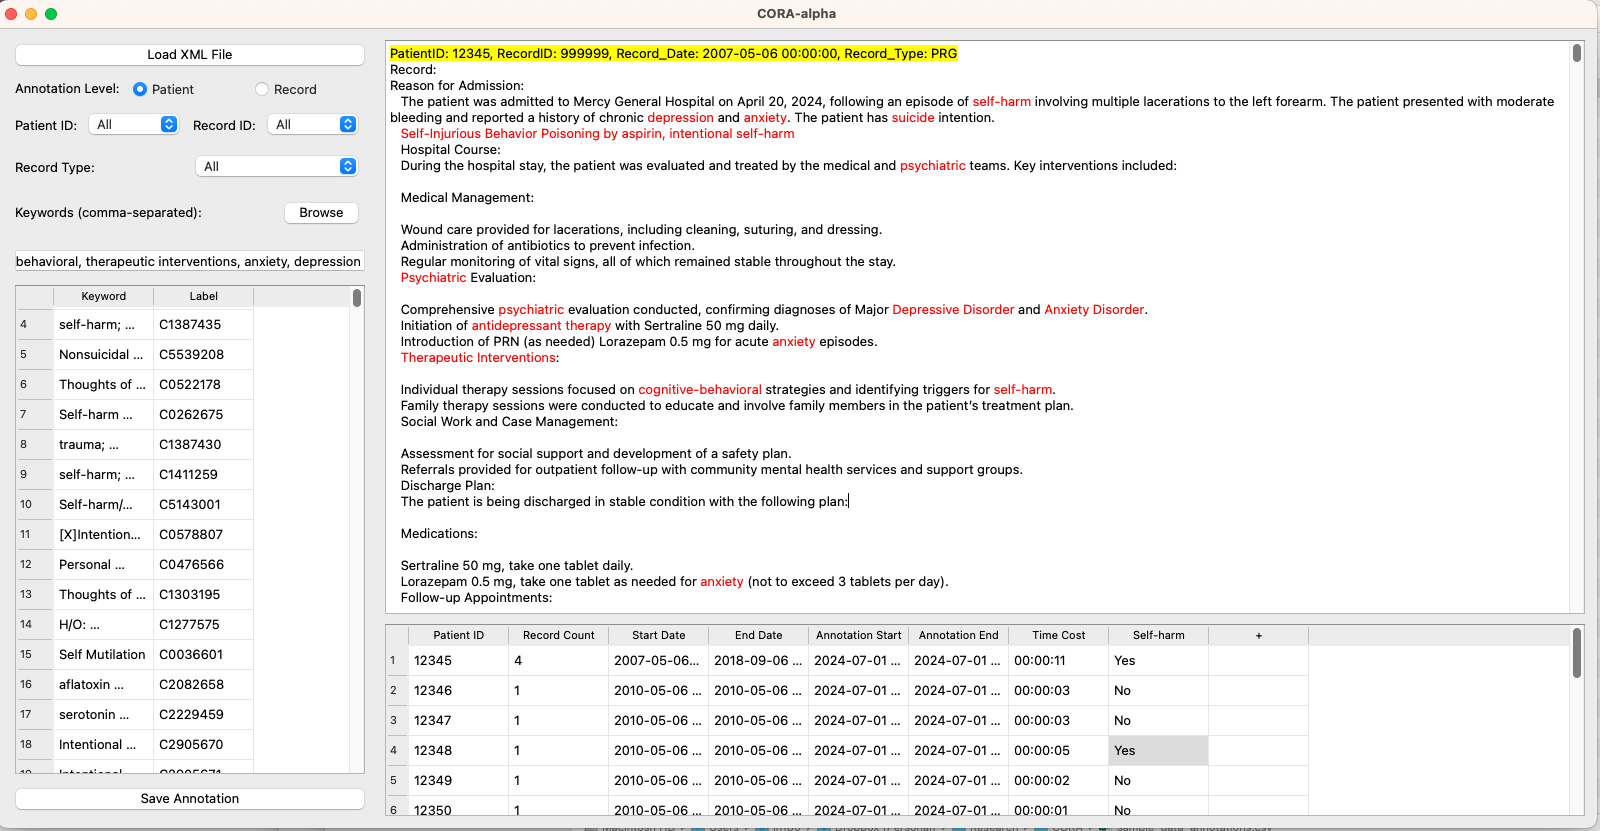
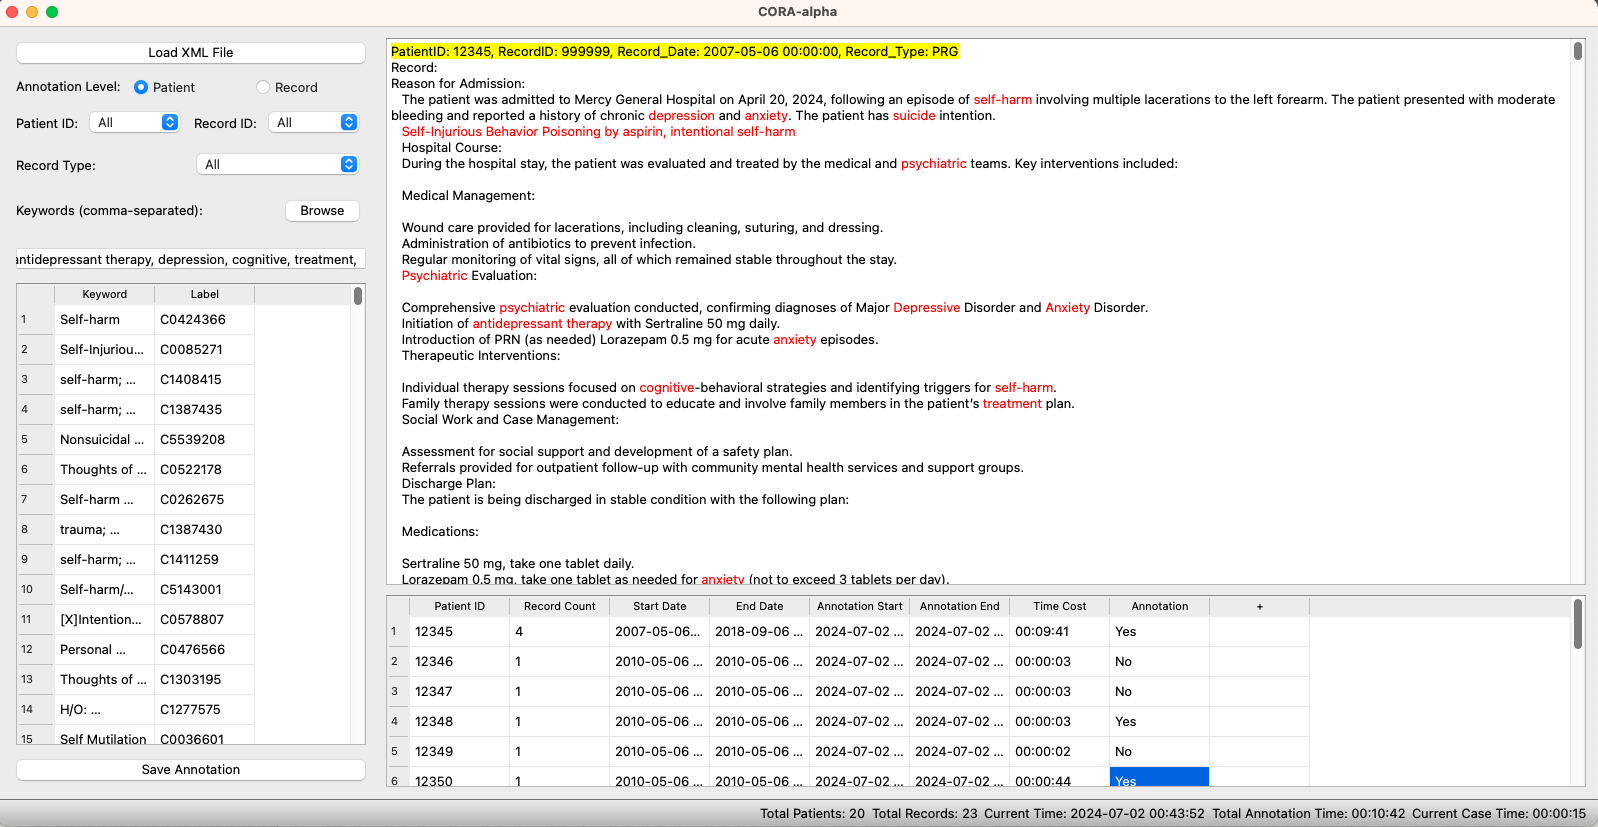
init

diff --git a/cora.py b/cora.py
@@ -12,7 +12,7 @@ from PyQt5.QtWidgets import (QApplication, QMainWindow, QWidget, QVBoxLayout, QH
                              QPushButton, QLabel, QLineEdit, QTextEdit, QTableWidget, 
                              QTableWidgetItem, QHeaderView, QFileDialog, QMessageBox, QInputDialog,
                              QListWidget, QComboBox, QDateEdit, QRadioButton, QButtonGroup, QGridLayout)
-from PyQt5.QtCore import Qt, QDateTime, QTime,  QDate
+from PyQt5.QtCore import Qt, QDateTime, QTime,  QDate, QTimer
 from PyQt5.QtGui import QColor, QTextCharFormat, QTextCursor, QTextDocument
 
 ## enable adjust column width of annotation panel
@@ -51,6 +51,29 @@ class AnnotationTool(QMainWindow):
         self.record_headers = ['PatientID', 'RecordID', 'Record_Date', 'Record_Type', 'Annotation Start', 'Annotation End', 'Time Cost', 'Annotation', '+']
         self.load_keywords = {}
         self.annotation_start_times = {}
+        
+        # Create status bar
+        self.statusBar = self.statusBar()
+        self.patient_count_label = QLabel()
+        self.record_count_label = QLabel()
+        self.current_time_label = QLabel()
+        self.total_time_cost_label = QLabel()
+        self.current_case_time_label = QLabel()
+
+        self.statusBar.addPermanentWidget(self.patient_count_label)
+        self.statusBar.addPermanentWidget(self.record_count_label)
+        self.statusBar.addPermanentWidget(self.current_time_label)
+        self.statusBar.addPermanentWidget(self.total_time_cost_label)
+        self.statusBar.addPermanentWidget(self.current_case_time_label)
+
+        # Start timer for updating status bar
+        self.timer = QTimer(self)
+        self.timer.timeout.connect(self.update_status_bar)
+        self.timer.start(1000)  # Update every second
+
+        # Initialize total time cost and current case time
+        self.total_time_cost = 0
+        self.current_case_start_time = QDateTime.currentDateTime()
 
     def initUI(self):
         self.setWindowTitle('CORA-alpha')
@@ -73,7 +96,7 @@ class AnnotationTool(QMainWindow):
         self.annotation_level_label = QLabel("Annotation Level:")
         self.patient_level_radio = QRadioButton("Patient")
         self.record_level_radio = QRadioButton("Record")
-        self.record_level_radio.setChecked(True)  # Default to record level
+        self.patient_level_radio.setChecked(True)  # Default to patient level
         # Create a button group
         self.annotation_level_group = QButtonGroup(self)
         self.annotation_level_group.addButton(self.patient_level_radio)
@@ -228,6 +251,9 @@ class AnnotationTool(QMainWindow):
             self.update_display()
             # Set CSV file path
             self.csv_file_path = file_path.rsplit('.', 1)[0] + '_annotations.csv'
+            # Reset total time cost and current case time
+            self.total_time_cost = 0
+            self.current_case_start_time = QDateTime.currentDateTime()
         self.is_switching_levels = False
         
     def parse_xml(self, file_path):
@@ -302,6 +328,9 @@ class AnnotationTool(QMainWindow):
         selected_patient = self.patient_id_combo.currentText()
         selected_record_type = self.record_type_combo.currentText()
         selected_record = self.record_id_combo.currentText()
+        # Reset current case start time
+        self.current_case_start_time = QDateTime.currentDateTime()
+        
         self.filtered_records = self.records.copy()
         if selected_patient != "All":
             self.filtered_records = [record for record in self.filtered_records if record['PatientID'] == selected_patient]
@@ -333,6 +362,9 @@ class AnnotationTool(QMainWindow):
         current_id = self.get_current_id()
         if current_id not in self.annotation_start_times:
             self.annotation_start_times[current_id] = QDateTime.currentDateTime()
+        
+        # Reset current case start time
+        self.current_case_start_time = QDateTime.currentDateTime()
 
     def get_current_id(self):
         if self.patient_level_radio.isChecked():
@@ -365,6 +397,32 @@ class AnnotationTool(QMainWindow):
             self.update_keyword_table()
             self.highlight_keywords()
         
+    def update_status_bar(self):
+        # Update patient count
+        total_patients = len(set(record['PatientID'] for record in self.records))
+        self.patient_count_label.setText(f"Total Patients: {total_patients}")
+
+        # Update record count
+        total_records = len(self.records)
+        self.record_count_label.setText(f"Total Records: {total_records}")
+
+        # Update current time
+        current_time = QDateTime.currentDateTime().toString('yyyy-MM-dd hh:mm:ss')
+        self.current_time_label.setText(f"Current Time: {current_time}")
+
+        # Update total time cost
+        self.total_time_cost += 1  # Increment by 1 second
+        total_hours, total_remainder = divmod(self.total_time_cost, 3600)
+        total_minutes, total_seconds = divmod(total_remainder, 60)
+        total_time_cost_str = f"{total_hours:02d}:{total_minutes:02d}:{total_seconds:02d}"
+        self.total_time_cost_label.setText(f"Total Annotation Time: {total_time_cost_str}")
+
+        # Update current case waiting time
+        current_case_time = self.current_case_start_time.secsTo(QDateTime.currentDateTime())
+        case_hours, case_remainder = divmod(current_case_time, 3600)
+        case_minutes, case_seconds = divmod(case_remainder, 60)
+        case_time_str = f"{case_hours:02d}:{case_minutes:02d}:{case_seconds:02d}"
+        self.current_case_time_label.setText(f"Current Case Time: {case_time_str}")
 
     def highlight_keywords(self):
         keywords = [keyword for keyword in self.keyword_entry.text().split(',') if keyword.strip()]
@@ -555,6 +613,8 @@ class AnnotationTool(QMainWindow):
                     
                     # Reset start time for the next annotation
                     self.annotation_start_times[current_id] = end_time
+                    # Reset current case start time
+                    self.current_case_start_time = QDateTime.currentDateTime()
                 
                 self.save_current_annotations()
             finally:
